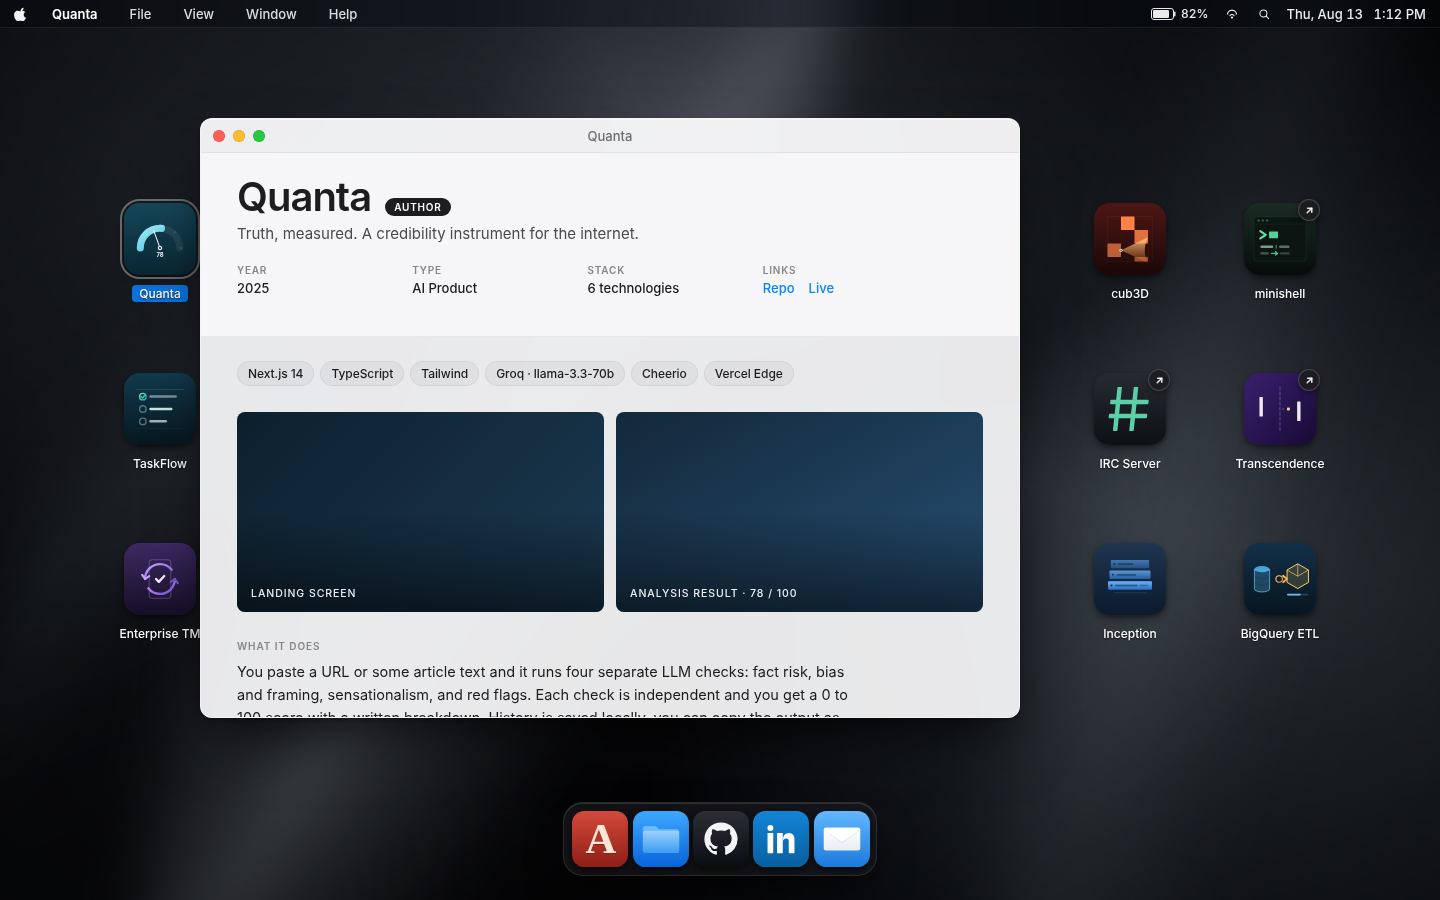
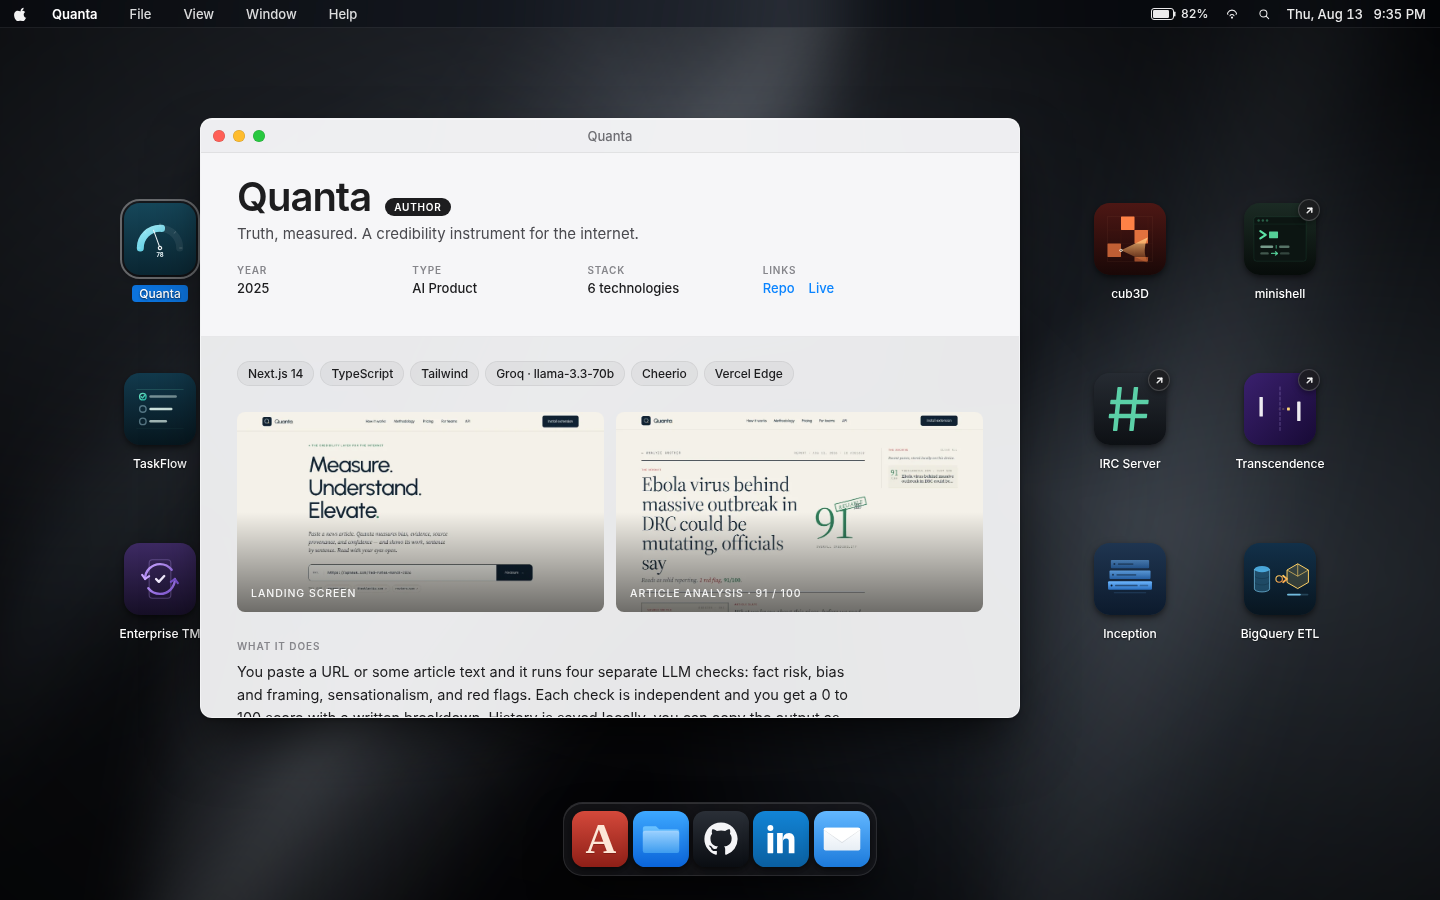
Show real project screenshots in project windows

Changed region(s): [[0.1562, 0.4356, 0.6875, 0.6844]]

diff --git a/data.js b/data.js
@@ -31,8 +31,8 @@ window.PROJECTS = [
     icon: "assets/icons/projects/quanta.svg",
     position: { x: -560, y: -215 },
     images: [
-      { c: "linear-gradient(135deg,#0d1f2d 0%,#1b3a52 100%)", label: "Landing screen" },
-      { c: "linear-gradient(150deg,#13283a 0%,#264f73 100%)", label: "Analysis result · 78 / 100" },
+      { src: "assets/screenshots/quanta/landing.webp", pos: "top", c: "linear-gradient(135deg,#0d1f2d 0%,#1b3a52 100%)", label: "Landing screen" },
+      { src: "assets/screenshots/quanta/report.webp", pos: "top", c: "linear-gradient(150deg,#13283a 0%,#264f73 100%)", label: "Article analysis · 91 / 100" },
     ],
     what:
       "You paste a URL or some article text and it runs four separate LLM checks: fact risk, bias and framing, sensationalism, and red flags. Each check is independent and you get a 0 to 100 score with a written breakdown. History is saved locally, you can copy the output as markdown, and it works in both English and Arabic.",
@@ -53,8 +53,8 @@ window.PROJECTS = [
     icon: "assets/icons/projects/taskflow.svg",
     position: { x: -560, y: -45 },
     images: [
-      { c: "linear-gradient(150deg,#123a4d 0%,#1d6a63 100%)", label: "Today · what's due" },
-      { c: "linear-gradient(160deg,#0f2f3e 0%,#22b3a0 100%)", label: "Task open in place" },
+      { src: "assets/screenshots/taskflow/today.webp", pos: "top", c: "linear-gradient(150deg,#123a4d 0%,#1d6a63 100%)", label: "Today · what's due" },
+      { src: "assets/screenshots/taskflow/task-open.webp", pos: "top", c: "linear-gradient(160deg,#0f2f3e 0%,#22b3a0 100%)", label: "Task open in place" },
     ],
     what:
       "Six lists that each mean something: Inbox, Today, Upcoming grouped by day, Anytime, Someday, and a Logbook. Areas hold projects, projects divide into headings you name, and you can drag a to-do between sections. Quick capture opens over whatever you were doing, and typing \"call the dentist tomorrow\" or \"water the plants every friday\" gets the date and the repeat out of the sentence. Notes, checklists, tags, a scheduled date and a separate deadline. One Flutter codebase for Android, iOS and web.",
@@ -119,8 +119,8 @@ window.PROJECTS = [
     icon: "assets/icons/projects/inception.svg",
     position: { x: 410, y: 125 },
     images: [
-      { c: "linear-gradient(140deg,#16202a 0%,#283744 100%)", label: "Service topology" },
-      { c: "linear-gradient(150deg,#1c2731 0%,#34495f 100%)", label: "Portfolio sub-site · dark" },
+      { src: "assets/screenshots/inception/wordpress.webp", c: "linear-gradient(140deg,#16202a 0%,#283744 100%)", label: "WordPress · behind NGINX" },
+      { src: "assets/screenshots/inception/portfolio-dark.webp", pos: "top", c: "linear-gradient(150deg,#1c2731 0%,#34495f 100%)", label: "Portfolio sub-site · dark" },
     ],
     what:
       "Five Docker containers: NGINX (TLS + reverse proxy), WordPress + PHP-FPM, MariaDB, Adminer, and a static portfolio site. All on a custom bridge network with persistent volumes, all built from debian:bullseye. No pre-built images, no latest tags.",
@@ -140,8 +140,8 @@ window.PROJECTS = [
     icon: "assets/icons/projects/cub3d.svg",
     position: { x: 410, y: -215 },
     images: [
-      { c: "linear-gradient(180deg,#3a1a0e 0%,#0e0806 70%)", label: "Textured walls · 60fps" },
-      { c: "linear-gradient(180deg,#241208 0%,#0e0806 60%)", label: "Minimap + health HUD" },
+      { src: "assets/screenshots/cub3d/corridor.webp", c: "linear-gradient(180deg,#3a1a0e 0%,#0e0806 70%)", label: "Textured walls · 60fps" },
+      { src: "assets/screenshots/cub3d/enemies.webp", c: "linear-gradient(180deg,#241208 0%,#0e0806 60%)", label: "Enemies · minimap + health" },
     ],
     what:
       "Wolfenstein 3D-style first-person engine in C, rendering with raycasting (DDA) onto MinilibX. WASD + mouse-look, textured walls per cardinal direction, animated sprites, configurable floor and ceiling colors via .cub map files.",
@@ -212,8 +212,8 @@ window.PROJECTS = [
     icon: "assets/icons/projects/transcendence.svg",
     position: { x: 560, y: -45 },
     images: [
-      { c: "linear-gradient(150deg,#1a1130 0%,#3a2566 100%)", label: "Architecture · 5 services" },
-      { c: "linear-gradient(180deg,#0e0820 0%,#231447 100%)", label: "Match lobby" },
+      { src: "assets/screenshots/transcendence/architecture.webp", fit: "contain", c: "linear-gradient(150deg,#e8ecf2 0%,#c8d2e0 100%)", label: "Architecture · 5 services" },
+      { src: "assets/screenshots/transcendence/services.webp", fit: "contain", c: "linear-gradient(160deg,#eef1f5 0%,#ccd6e2 100%)", label: "Service implementation" },
     ],
     what:
       "Real-time multiplayer Pong as event-driven microservices. An API Gateway fans out to four services (user, game, chat, tournament), all communicating asynchronously over RabbitMQ. Secrets in HashiCorp Vault, ModSecurity WAF at the edge, 2FA + JWT auth, SQLite per service, Redis for sessions. Goal: under 30 seconds from page load to a fair online match.",
@@ -259,8 +259,7 @@ window.PROJECTS = [
     icon: "assets/icons/projects/minishell.svg",
     position: { x: 560, y: -215 },
     images: [
-      { c: "linear-gradient(160deg,#1b2b24 0%,#2f6b4d 100%)", label: "Interactive prompt" },
-      { c: "linear-gradient(150deg,#0d1712 0%,#255f42 100%)", label: "Pipeline · ls | grep | wc" },
+      { src: "assets/screenshots/minishell/prompt.webp", pos: "top", c: "linear-gradient(160deg,#1b2b24 0%,#2f6b4d 100%)", label: "Prompt · echo | cat, pwd" },
     ],
     contributions:
       "TODO: one paragraph in your own words. Did you own the lexer and tree construction, the executor and process handling, or the built-ins and environment? Say which side of the parser/executor split was yours, and be specific.",

diff --git a/WindowContent.jsx b/WindowContent.jsx
@@ -73,13 +73,26 @@ function ProjectWindowContent({ project }) {
           ))}
         </div>
 
-        {/* Hero grid */}
-        <div className="pw-grid">
+        {/* Hero grid. An entry with a src paints the real screenshot; one with
+            only a gradient stays a placeholder, so projects without shots yet
+            still render. fit/pos let a portrait phone capture or a wide diagram
+            sit properly in a landscape panel. */}
+        <div className={`pw-grid ${project.images.length === 1 ? 'single' : ''}`}>
           {project.images.slice(0, 2).map((img, i) => (
             <div
               key={i}
               className="pw-img-block"
-              style={{ background: img.c }}
+              style={
+                img.src
+                  ? {
+                      background: img.c,
+                      backgroundImage: `url("${img.src}")`,
+                      backgroundSize: img.fit || 'cover',
+                      backgroundPosition: img.pos || 'center',
+                      backgroundRepeat: 'no-repeat',
+                    }
+                  : { background: img.c }
+              }
             >
               <div className="pw-img-label">{img.label}</div>
             </div>

diff --git a/portfolio-extras.css b/portfolio-extras.css
@@ -161,6 +161,9 @@
   gap: 12px;
   margin-bottom: 28px;
 }
+/* One screenshot spans the row rather than leaving a hole beside it. */
+.pw-grid.single { grid-template-columns: 1fr; }
+.pw-grid.single .pw-img-block { height: 260px; }
 .pw-img-block {
   border-radius: 8px;
   height: 200px;

diff --git a/README.md b/README.md
@@ -84,10 +84,16 @@ Every project window is generated from one data object:
 
 ![A project window](docs/screenshots/project-window.png)
 
-Role pill (Author / Contributor), year, type, stack chip row, two hero panels,
-a *What it does* / *Why it's interesting* writeup, and CTAs to the repo and the
-live demo. Contributor projects get an extra *My contributions* section — but
-only once you've actually written it (see [Making it yours](#making-it-yours)).
+Role pill (Author / Contributor), year, type, stack chip row, screenshots of the
+project itself, a *What it does* / *Why it's interesting* writeup, and CTAs to
+the repo and the live demo. Contributor projects get an extra *My contributions*
+section — but only once you've actually written it (see
+[Making it yours](#making-it-yours)).
+
+Screenshots are pulled from each project's own repo, downscaled and served as
+WebP from `assets/screenshots/`. A project with no captures yet falls back to its
+gradient panel rather than breaking the layout, and one with a single capture
+spans the full row instead of leaving a hole.
 
 ### Spotlight — ⌘K
 
@@ -200,9 +206,13 @@ Push an object onto `window.PROJECTS`:
   live: "https://…",            // optional — adds a "Live demo" CTA
   icon: "assets/icons/projects/myproject.svg",
   position: { x: -200, y: 100 },     // offset from the centre of the desktop
-  images: [                          // two gradient panels above the writeup
-    { c: "linear-gradient(135deg,#123 0%,#456 100%)", label: "Landing screen" },
-    { c: "linear-gradient(150deg,#234 0%,#567 100%)", label: "Detail view" },
+  images: [                          // one or two panels above the writeup
+    { src: "assets/screenshots/myproject/landing.webp",
+      c: "linear-gradient(135deg,#123 0%,#456 100%)",   // shown while loading
+      pos: "top",                                        // default "center"
+      label: "Landing screen" },
+    { c: "linear-gradient(150deg,#234 0%,#567 100%)",    // no src = placeholder
+      label: "Detail view" },
   ],
   what: "What it does, plainly.",
   why:  "Why it's technically interesting.",
@@ -220,6 +230,13 @@ one to stay in the set.
 
 The desktop label is capped at 112px, so anything much past ~15 characters wants
 a `shortName`. The window title always uses the full `name`.
+
+For screenshots, drop WebP files in `assets/screenshots/<project>/`. Panels are
+about 370×200, so downscale to ~900px wide — anything larger is wasted bytes.
+`fit: "contain"` suits a wide diagram that shouldn't be cropped; `pos: "top"`
+suits a portrait phone capture, where the top of the screen is the interesting
+part. Give a contained image a light `c` if the image itself has a light
+background, so the letterboxing doesn't fight it.
 </details>
 
 <details>
@@ -291,6 +308,10 @@ Honest list, since this is a live project:
   Visualizer) still have `TODO` placeholders in their `contributions` field. The
   UI hides the section until they're written, so nothing looks broken — but
   they're empty.
+- Six of the twelve projects have real screenshots; the other six (Enterprise
+  Task Manager, TaskManager API, GEObrief, BigQuery ETL, IRC Server, NEO Risk
+  Visualizer) still show gradient placeholders, because their repos have no
+  captures to pull from.
 - Spotlight lists a **Resume** entry that has no window behind it yet.
 - The View menu's *Dock magnification* and *Reduce motion* toggles are declared
   in `MENU_STRUCTURE` but not yet handled in `handleMenuAction`.
